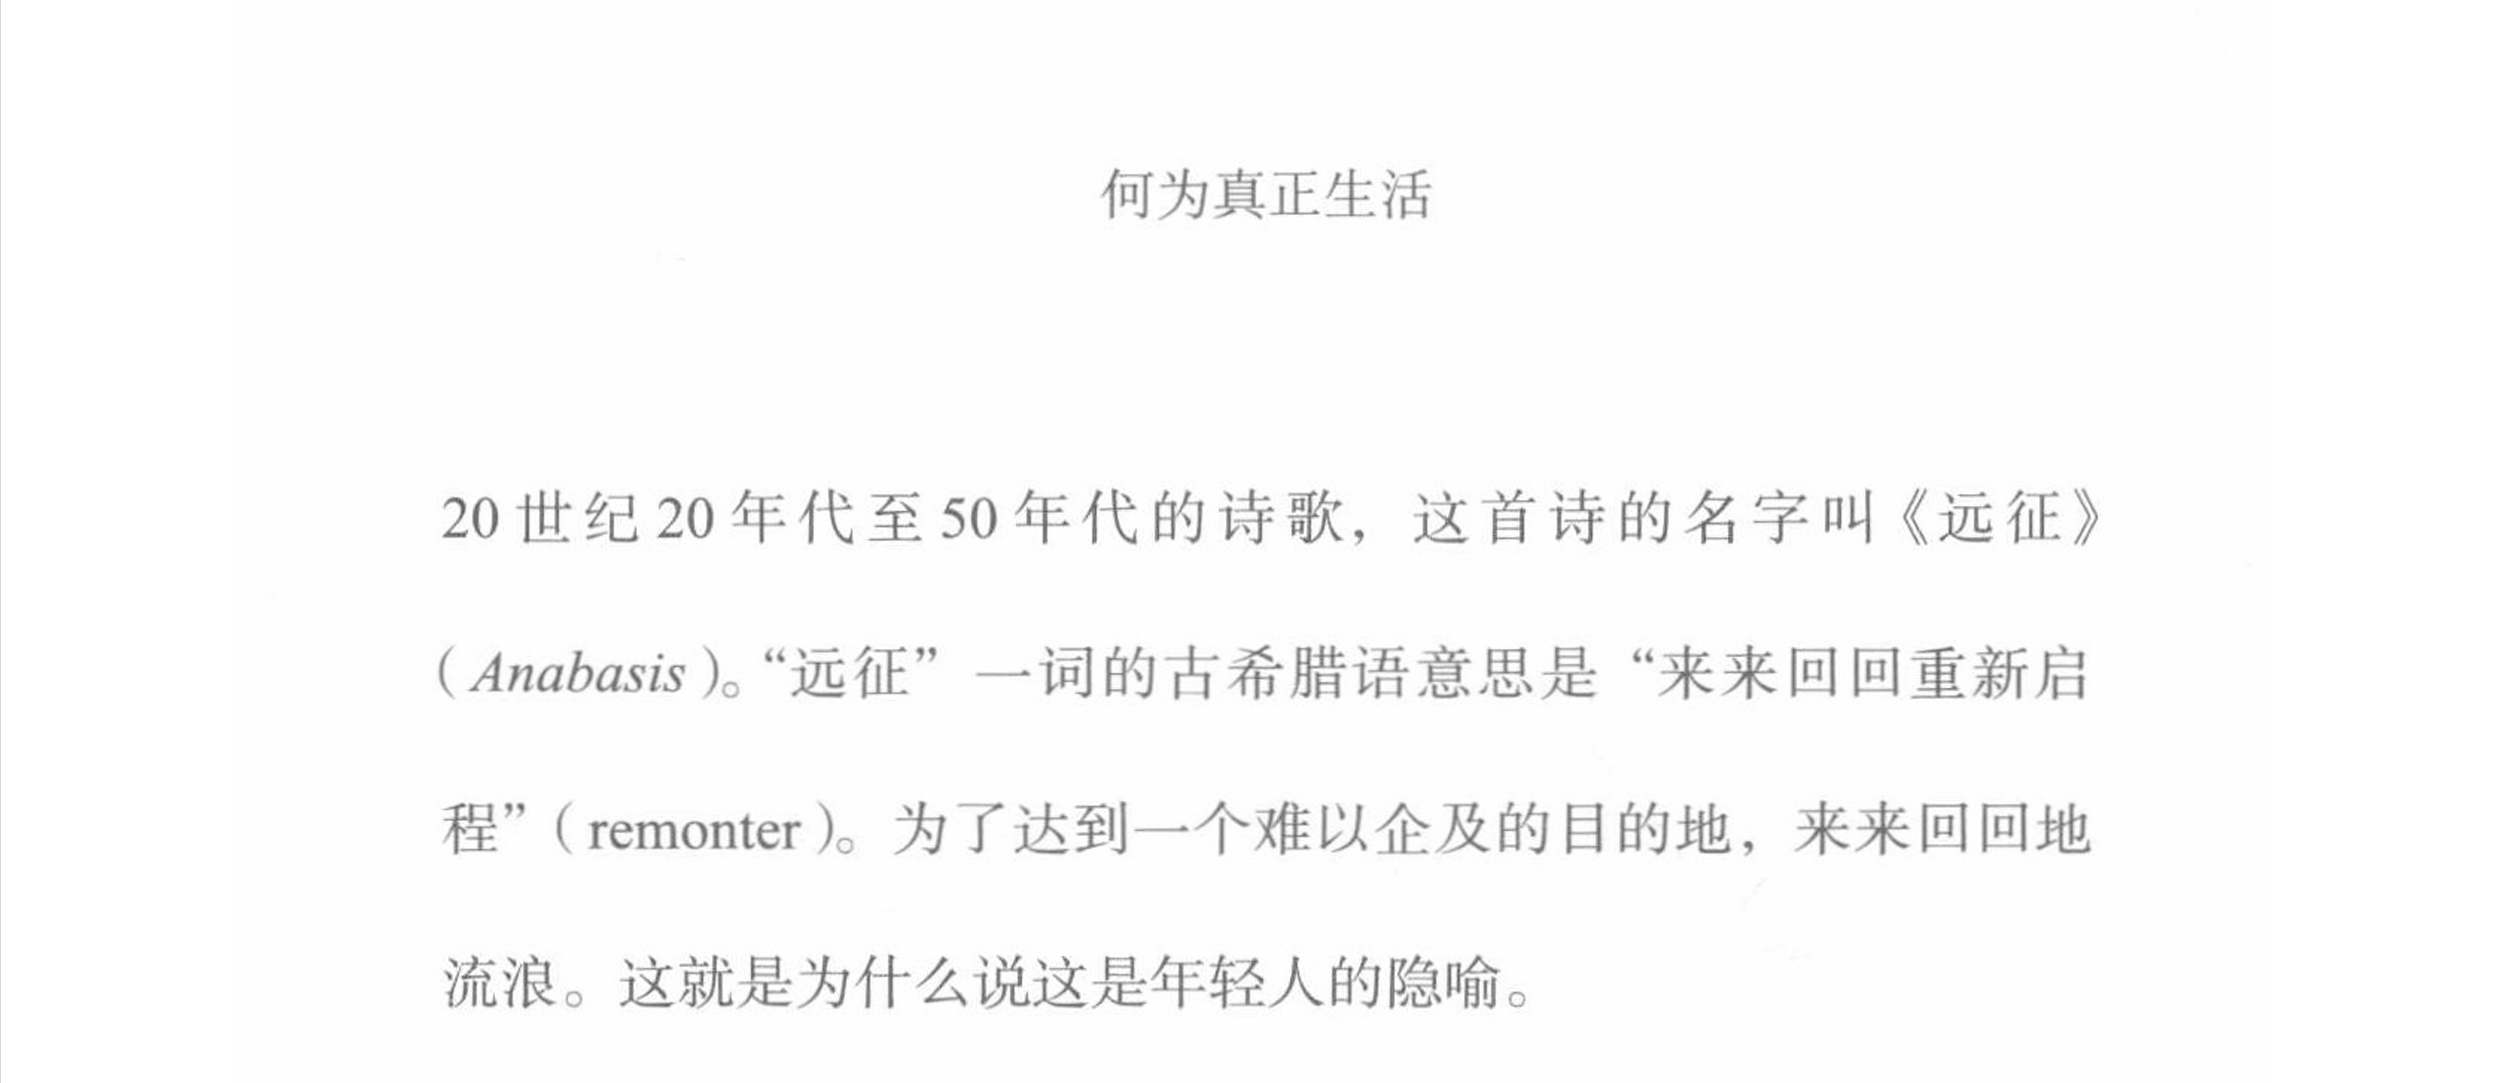
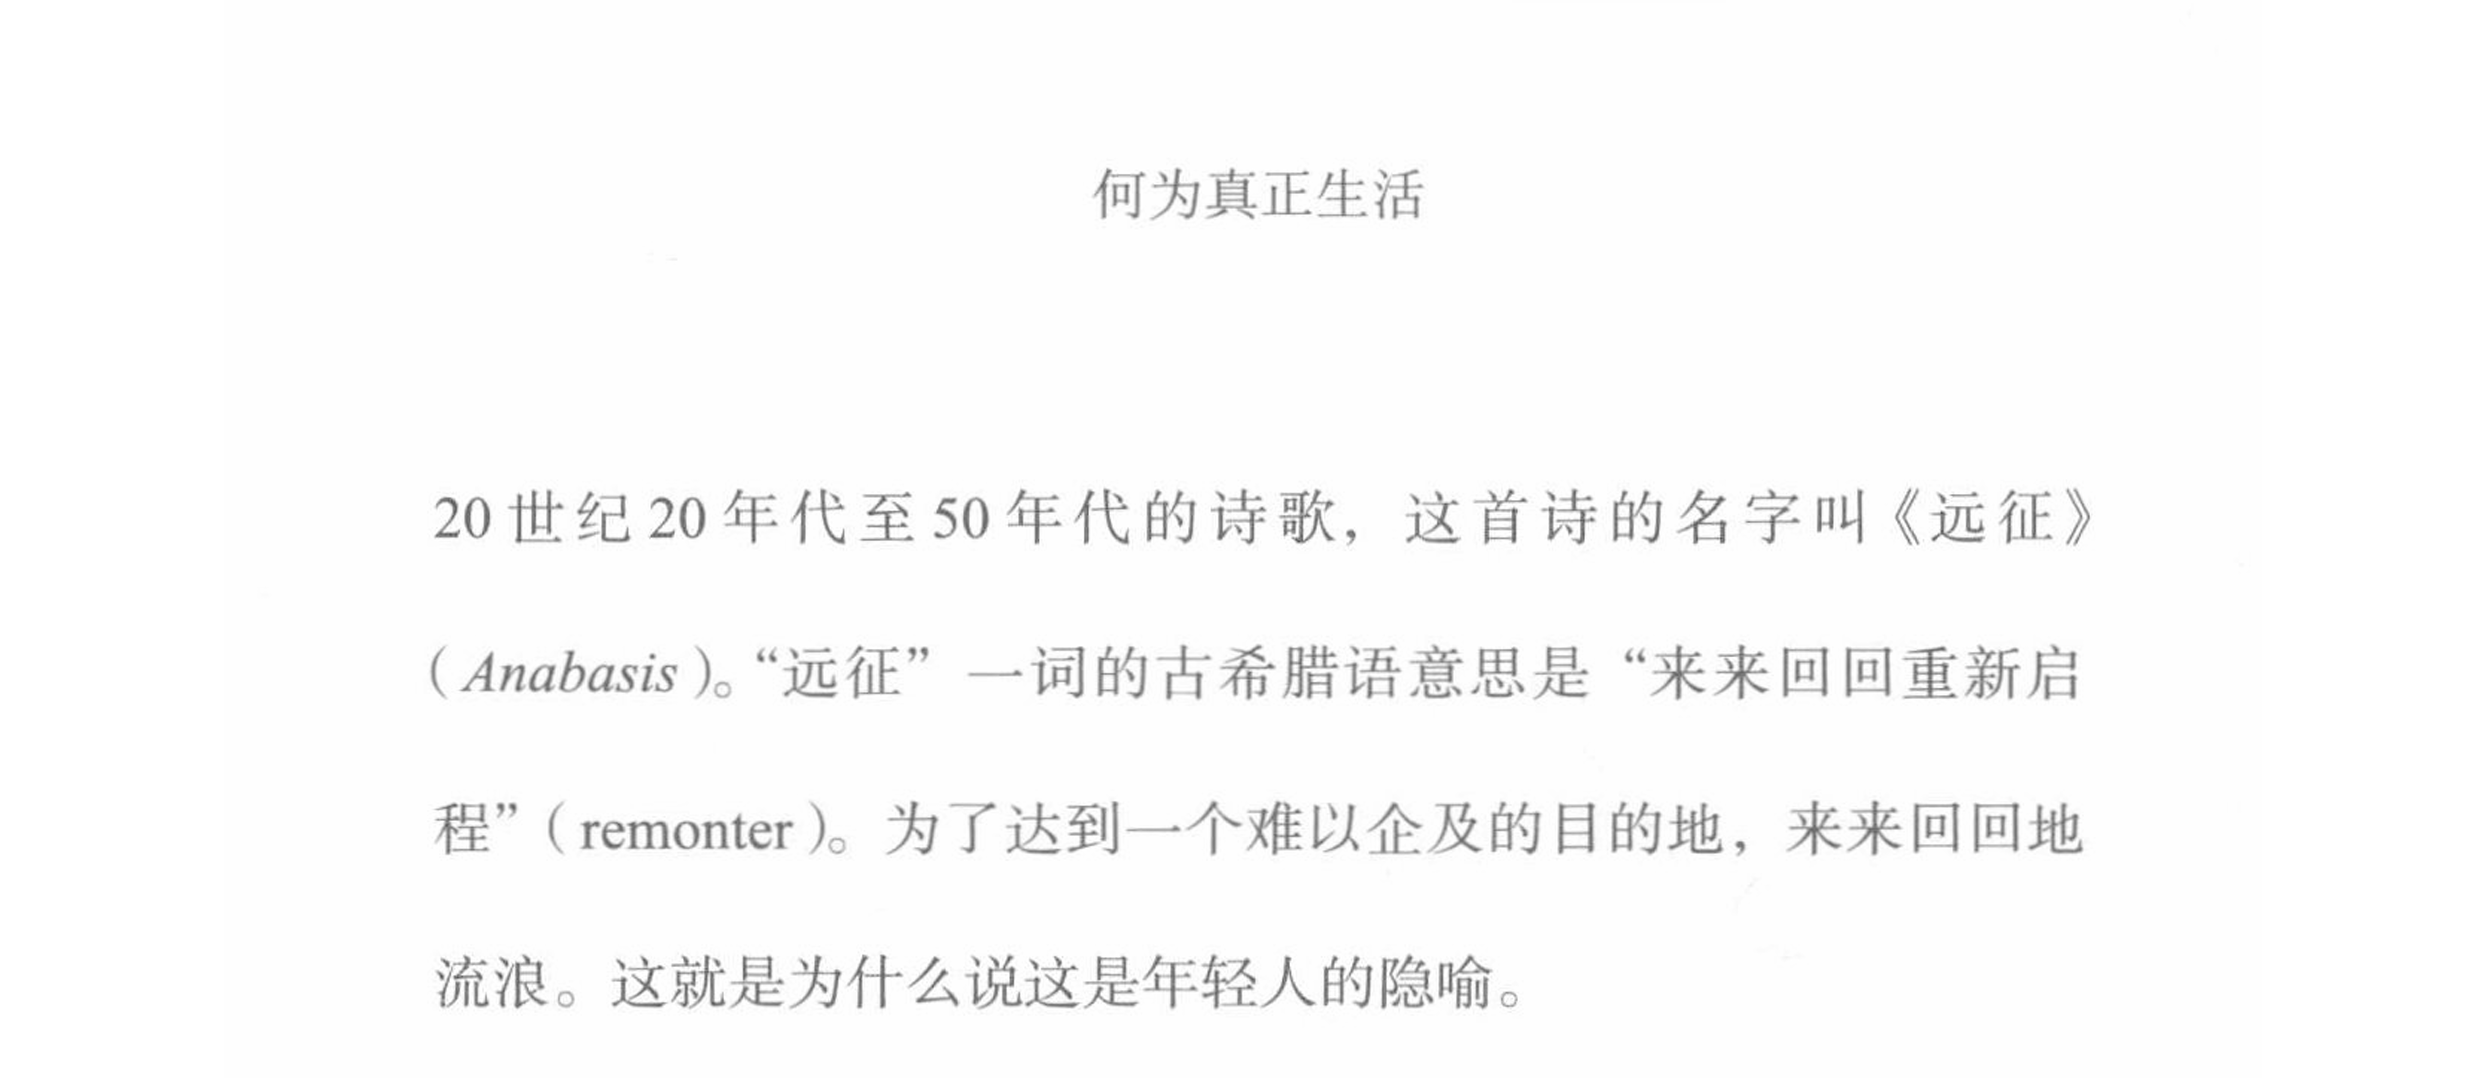
Site updated: 2025-07-23 11:12:22

diff --git a/2025/07/23/何为真正生活/index.html b/2025/07/23/何为真正生活/index.html
@@ -18,16 +18,14 @@
     var CONFIG = {"hostname":"example.com","root":"/","scheme":"Mist","version":"7.8.0","exturl":false,"sidebar":{"position":"left","display":"post","padding":18,"offset":12,"onmobile":false},"copycode":{"enable":false,"show_result":false,"style":null},"back2top":{"enable":true,"sidebar":false,"scrollpercent":false},"bookmark":{"enable":false,"color":"#222","save":"auto"},"fancybox":false,"mediumzoom":false,"lazyload":false,"pangu":false,"comments":{"style":"tabs","active":null,"storage":true,"lazyload":false,"nav":null},"algolia":{"hits":{"per_page":10},"labels":{"input_placeholder":"Search for Posts","hits_empty":"We didn't find any results for the search: ${query}","hits_stats":"${hits} results found in ${time} ms"}},"localsearch":{"enable":false,"trigger":"auto","top_n_per_article":1,"unescape":false,"preload":false},"motion":{"enable":true,"async":false,"transition":{"post_block":"fadeIn","post_header":"slideDownIn","post_body":"slideDownIn","coll_header":"slideLeftIn","sidebar":"slideUpIn"}}};
   </script>
 
-  <meta name="description" content="Where is my promised land?There are no new continents any more.">
-<meta property="og:type" content="article">
-<meta property="og:title" content="何为真正生活?">
+  <meta property="og:type" content="article">
+<meta property="og:title" content="应许之地">
 <meta property="og:url" content="http://example.com/2025/07/23/%E4%BD%95%E4%B8%BA%E7%9C%9F%E6%AD%A3%E7%94%9F%E6%B4%BB/index.html">
 <meta property="og:site_name" content="cabin&#39;s blog">
-<meta property="og:description" content="Where is my promised land?There are no new continents any more.">
 <meta property="og:locale" content="zh_CN">
 <meta property="og:image" content="http://example.com/pic/%E4%BD%95%E4%B8%BA%E7%9C%9F%E6%AD%A3%E7%94%9F%E6%B4%BB.png">
 <meta property="article:published_time" content="2025-07-23T02:40:54.000Z">
-<meta property="article:modified_time" content="2025-07-23T02:59:49.997Z">
+<meta property="article:modified_time" content="2025-07-23T03:10:06.316Z">
 <meta property="article:author" content="cabin">
 <meta property="article:tag" content="Math, DeepLearning, art">
 <meta name="twitter:card" content="summary">
@@ -46,7 +44,7 @@
   };
 </script>
 
-  <title>何为真正生活? | cabin's blog</title>
+  <title>应许之地 | cabin's blog</title>
   
 
 
@@ -174,7 +172,7 @@
     </span>
       <header class="post-header">
         <h1 class="post-title" itemprop="name headline">
-          何为真正生活?
+          应许之地
         </h1>
 
         <div class="post-meta">
@@ -185,7 +183,7 @@
               <span class="post-meta-item-text">发表于</span>
               
 
-              <time title="创建时间：2025-07-23 10:40:54 / 修改时间：10:59:49" itemprop="dateCreated datePublished" datetime="2025-07-23T10:40:54+08:00">2025-07-23</time>
+              <time title="创建时间：2025-07-23 10:40:54 / 修改时间：11:10:06" itemprop="dateCreated datePublished" datetime="2025-07-23T10:40:54+08:00">2025-07-23</time>
             </span>
 
           
@@ -199,7 +197,7 @@
     <div class="post-body" itemprop="articleBody">
 
       
-        <p><img src="/pic/何为真正生活.png" alt="img"><br>Where is my promised land?<br>There are no new continents any more. </p>
+        <p><img src="/pic/何为真正生活.png" alt="img"></p>
 
     </div>
 

diff --git a/index.html b/index.html
@@ -171,7 +171,7 @@
       <header class="post-header">
         <h2 class="post-title" itemprop="name headline">
           
-            <a href="/2025/07/23/%E4%BD%95%E4%B8%BA%E7%9C%9F%E6%AD%A3%E7%94%9F%E6%B4%BB/" class="post-title-link" itemprop="url">何为真正生活?</a>
+            <a href="/2025/07/23/%E4%BD%95%E4%B8%BA%E7%9C%9F%E6%AD%A3%E7%94%9F%E6%B4%BB/" class="post-title-link" itemprop="url">应许之地</a>
         </h2>
 
         <div class="post-meta">
@@ -182,7 +182,7 @@
               <span class="post-meta-item-text">发表于</span>
               
 
-              <time title="创建时间：2025-07-23 10:40:54 / 修改时间：10:59:49" itemprop="dateCreated datePublished" datetime="2025-07-23T10:40:54+08:00">2025-07-23</time>
+              <time title="创建时间：2025-07-23 10:40:54 / 修改时间：11:10:06" itemprop="dateCreated datePublished" datetime="2025-07-23T10:40:54+08:00">2025-07-23</time>
             </span>
 
           
@@ -196,7 +196,7 @@
     <div class="post-body" itemprop="articleBody">
 
       
-          <p><img src="/pic/何为真正生活.png" alt="img"><br>Where is my promised land?<br>There are no new continents any more. </p>
+          <p><img src="/pic/何为真正生活.png" alt="img"></p>
 
       
     </div>

diff --git a/2025/03/24/级数敛散性判别的一般流程/index.html b/2025/03/24/级数敛散性判别的一般流程/index.html
@@ -225,8 +225,8 @@
       <i class="fa fa-chevron-left"></i> 行列式的重要模板
     </a></div>
       <div class="post-nav-item">
-    <a href="/2025/07/23/%E4%BD%95%E4%B8%BA%E7%9C%9F%E6%AD%A3%E7%94%9F%E6%B4%BB/" rel="next" title="何为真正生活?">
-      何为真正生活? <i class="fa fa-chevron-right"></i>
+    <a href="/2025/07/23/%E4%BD%95%E4%B8%BA%E7%9C%9F%E6%AD%A3%E7%94%9F%E6%B4%BB/" rel="next" title="应许之地">
+      应许之地 <i class="fa fa-chevron-right"></i>
     </a></div>
     </div>
       </footer>

diff --git a/archives/2025/07/index.html b/archives/2025/07/index.html
@@ -178,7 +178,7 @@
 
       <div class="post-title">
           <a class="post-title-link" href="/2025/07/23/%E4%BD%95%E4%B8%BA%E7%9C%9F%E6%AD%A3%E7%94%9F%E6%B4%BB/" itemprop="url">
-            <span itemprop="name">何为真正生活?</span>
+            <span itemprop="name">应许之地</span>
           </a>
       </div>
 

diff --git a/archives/2025/index.html b/archives/2025/index.html
@@ -178,7 +178,7 @@
 
       <div class="post-title">
           <a class="post-title-link" href="/2025/07/23/%E4%BD%95%E4%B8%BA%E7%9C%9F%E6%AD%A3%E7%94%9F%E6%B4%BB/" itemprop="url">
-            <span itemprop="name">何为真正生活?</span>
+            <span itemprop="name">应许之地</span>
           </a>
       </div>
 

diff --git a/archives/index.html b/archives/index.html
@@ -178,7 +178,7 @@
 
       <div class="post-title">
           <a class="post-title-link" href="/2025/07/23/%E4%BD%95%E4%B8%BA%E7%9C%9F%E6%AD%A3%E7%94%9F%E6%B4%BB/" itemprop="url">
-            <span itemprop="name">何为真正生活?</span>
+            <span itemprop="name">应许之地</span>
           </a>
       </div>
 
